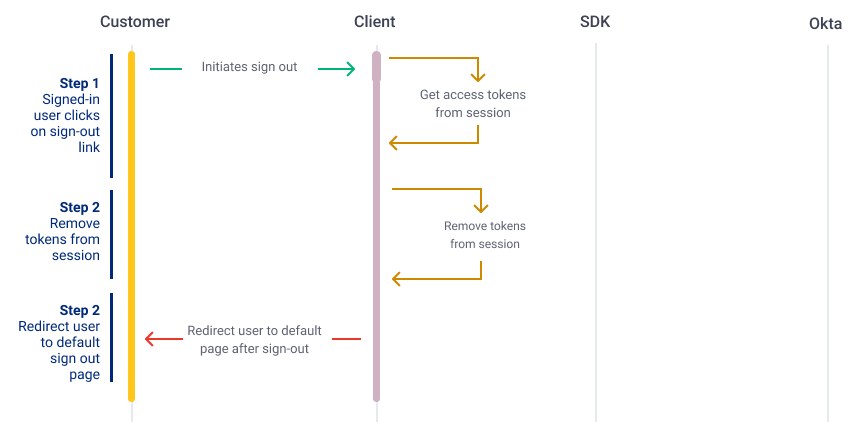
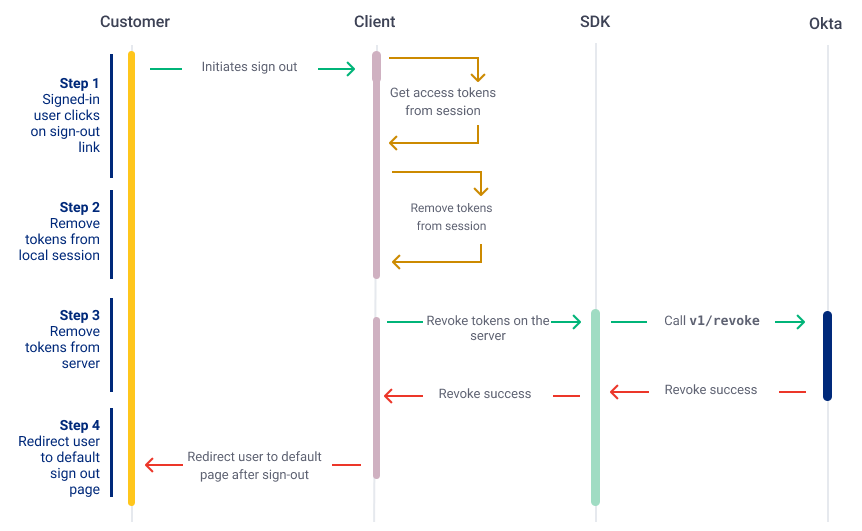
Update - sign out

diff --git a/packages/@okta/vuepress-site/docs/guides/oie-embedded-sdk-use-cases/oie-embedded-sdk-use-case-basic-sign-out/go/integrationsteps.md b/packages/@okta/vuepress-site/docs/guides/oie-embedded-sdk-use-cases/oie-embedded-sdk-use-case-basic-sign-out/go/integrationsteps.md
@@ -26,6 +26,15 @@ if err != nil {
 
 ```
 
-### Step 3: Send user to the signed out page
+### Step 3: Remove tokens from server
+
+The next step is to revoke the tokens on the server. Use the
+[revoke endpoint](/docs/guides/revoke-tokens/revokeatrt/)
+to remove the tokens from the server and clear it from use from any location.
+
+<!-- The goland SDK and sample app do not have code to revoke a token. It's a bug and a JIRA ticket
+has been opened. In the meantime, a reference to manually revoke the token using the endpoints is used. -->
+
+### Step 4: Send user to the signed out page
 
 After the user is signed out, send them to the default page after a sign-out.

diff --git a/packages/@okta/vuepress-site/docs/guides/oie-embedded-sdk-use-cases/oie-embedded-sdk-use-case-basic-sign-out/aspnet/summaryofsteps.md b/packages/@okta/vuepress-site/docs/guides/oie-embedded-sdk-use-cases/oie-embedded-sdk-use-case-basic-sign-out/aspnet/summaryofsteps.md
@@ -1,9 +1,11 @@
 ## Summary of steps
 
-This use case signs a user out of the local app by removing  The sequence of steps is shown below:
+This use case signs a user out of the local app by revoking
+their session tokens. The sequence of steps is shown below:
 
 <div class="common-image-format">
 
-![Diagram showing the sequence of steps a Golang application takes to sign out a user.](/img/oie-embedded-sdk/oie-embedded-sdk-go-use-case-simple-sign-out-seq.png)
+![Basic sign out sequence diagram](/img/oie-embedded-sdk/oie-embedded-sdk-use-case-simple-sign-out-seq.png
+ "Basic sign out sequence diagram]")
 
-</div>
+ </div>

diff --git a/packages/@okta/vuepress-site/docs/guides/oie-embedded-sdk-use-cases/oie-embedded-sdk-use-case-basic-sign-out/go/summaryofsteps.md b/packages/@okta/vuepress-site/docs/guides/oie-embedded-sdk-use-cases/oie-embedded-sdk-use-case-basic-sign-out/go/summaryofsteps.md
@@ -1,0 +1,9 @@
+## Summary of steps
+
+This use case signs a user out of the local app by removing  The sequence of steps is shown below:
+
+<div class="common-image-format">
+
+![Diagram showing the sequence of steps a Golang application takes to sign out a user.](/img/oie-embedded-sdk/oie-embedded-sdk-go-use-case-simple-sign-out-seq.png)
+
+</div>
